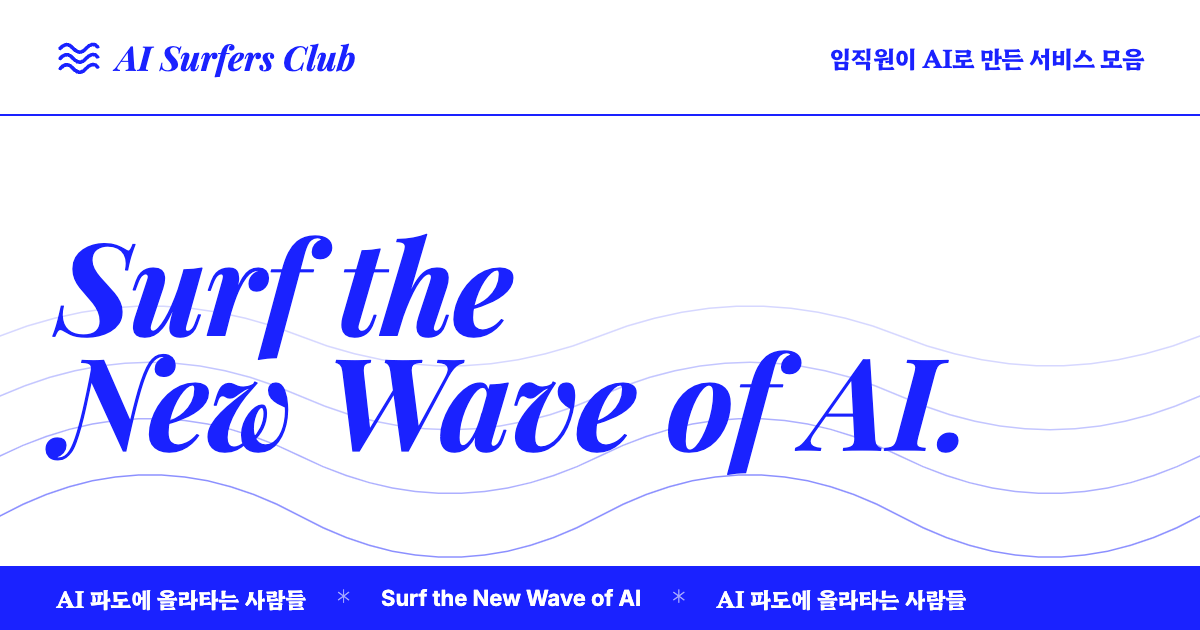
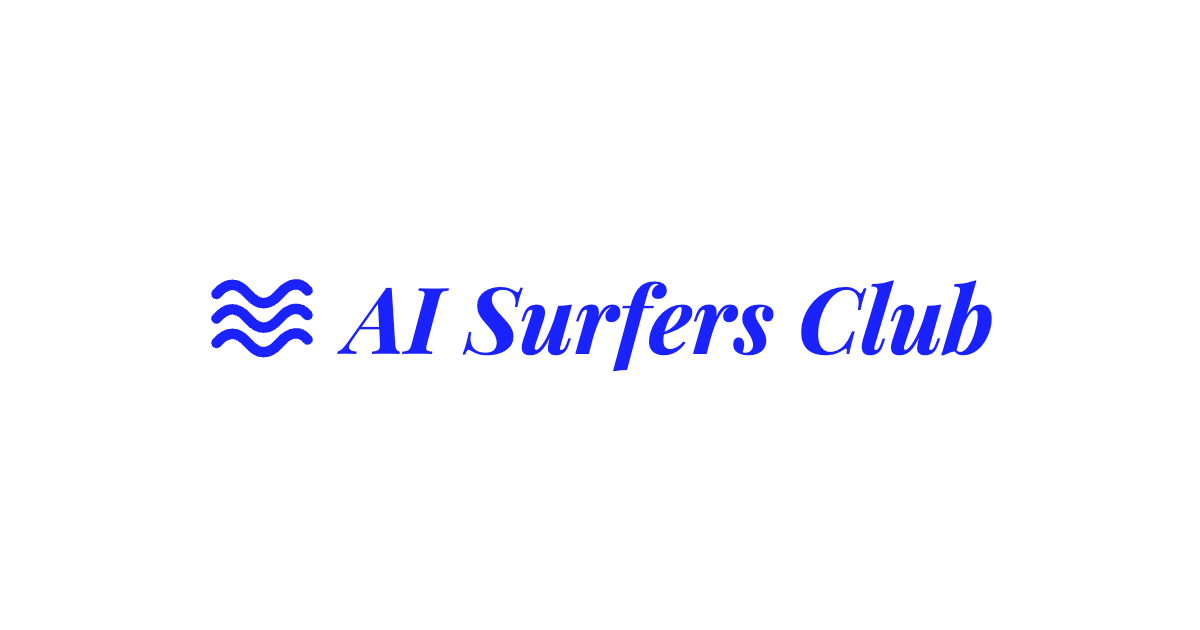
공유 이미지를 로고만 있는 디자인으로 변경

diff --git a/src/lib/site.ts b/src/lib/site.ts
@@ -2,6 +2,6 @@
 export const SITE_NAME = 'AI Surfers Club';
 export const SITE_DESCRIPTION = '임직원이 AI로 직접 만든 서비스를 소개하고 함께 써보는 곳';
 /** 공유 미리보기 기본 이미지 (public/og.png, 1200×630) */
-export const SITE_OG_IMAGE = { url: '/og.png', width: 1200, height: 630, alt: 'AI Surfers Club — Surf the New Wave of AI.' };
+export const SITE_OG_IMAGE = { url: '/og.png', width: 1200, height: 630, alt: 'AI Surfers Club 로고' };
 // 공유 이미지 주소를 절대 주소로 만들 기준. Vercel은 운영 도메인을 환경변수로 넣어준다
 export const SITE_URL = process.env.VERCEL_PROJECT_PRODUCTION_URL ? `https://${process.env.VERCEL_PROJECT_PRODUCTION_URL}` : 'http://localhost:3000';
